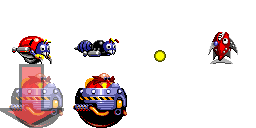
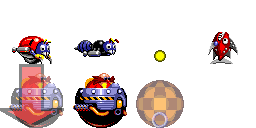
[GHZ] Improvements to boss

Changed region(s): [[0.5312, 0.625, 0.7188, 1.0]]

diff --git a/assets/levels/R2/objects.tsx b/assets/levels/R2/objects.tsx
@@ -7,4 +7,5 @@
  <tile id="3" type="unused1"/>
  <tile id="4" type="boss_spawner"/>
  <tile id="5" type="boss"/>
+ <tile id="6" type="boss_extras"/>
 </tileset>

diff --git a/src/object_state_update_R2.c b/src/object_state_update_R2.c
@@ -30,6 +30,7 @@ extern uint8_t    level_act;
 #define OBJ_CHOPPER      (MIN_LEVEL_OBJ_GID + 3) // Unused
 #define OBJ_BOSS_SPAWNER (MIN_LEVEL_OBJ_GID + 4)
 #define OBJ_BOSS         (MIN_LEVEL_OBJ_GID + 5)
+#define OBJ_BOSS_EXTRAS  (MIN_LEVEL_OBJ_GID + 6) // Wrecking ball and chain
 
 
 #define BUZZBOMBER_PATROL_RADIUS   (192 << 12)
@@ -44,17 +45,21 @@ static void _motobug_update(ObjectState *, ObjectTableEntry *, VECTOR *);
 static void _buzzbomber_ghz_update(ObjectState *, ObjectTableEntry *, VECTOR *);
 static void _projectile_ghz_update(ObjectState *, ObjectTableEntry *, VECTOR *);
 static void _boss_spawner_ghz_update(ObjectState *, ObjectTableEntry *, VECTOR *);
+static void _boss_ghz_update(ObjectState *, ObjectTableEntry *, VECTOR *);
+static void _boss_extras_ghz_update(ObjectState *, ObjectTableEntry *, VECTOR *);
 
 void
 object_update_R2(ObjectState *state, ObjectTableEntry *typedata, VECTOR *pos)
 {
     switch(state->id) {
     default: break;
-    case OBJ_MOTOBUG: _motobug_update(state, typedata, pos); break;
-    case OBJ_BUZZBOMBER: _buzzbomber_ghz_update(state, typedata, pos); break;
-    case OBJ_PROJECTILE: _projectile_ghz_update(state, typedata, pos); break;
+    case OBJ_MOTOBUG:      _motobug_update(state, typedata, pos);          break;
+    case OBJ_BUZZBOMBER:   _buzzbomber_ghz_update(state, typedata, pos);   break;
+    case OBJ_PROJECTILE:   _projectile_ghz_update(state, typedata, pos);   break;
     case OBJ_CHOPPER: break; // Unused
     case OBJ_BOSS_SPAWNER: _boss_spawner_ghz_update(state, typedata, pos); break;
+    case OBJ_BOSS:         _boss_ghz_update(state, typedata, pos);         break;
+    case OBJ_BOSS_EXTRAS:  _boss_extras_ghz_update(state, typedata, pos);  break;
     }
 }
 
@@ -342,6 +347,28 @@ _projectile_ghz_update(ObjectState *state, ObjectTableEntry *typedata, VECTOR *p
 
 extern BossState *boss;
 
+#define BOSS_STATE_INIT       0
+#define BOSS_STATE_MOCKPLAYER 1
+#define BOSS_STATE_DEAD       5
+
+#define BOSS_DESCENT_SPEED         0x01200
+#define BOSS_WALK_SPEED            0x01200
+#define BOSS_BALL_DESCENT_SPEED    0x01200
+#define WRECKINGBALL_SWING_RADIUS      111
+#define WRECKINGBALL_SWING_SPEED   0x00020
+
+#define BOSS_ANIM_STOP       0
+#define BOSS_ANIM_MOVE       1
+#define BOSS_ANIM_LAUGH      2
+#define BOSS_ANIM_HIT        3
+#define BOSS_ANIM_RECOVERING 4
+#define BOSS_ANIM_DEAD       5
+#define BOSS_ANIM_DROPPING   6
+
+// Extra object animations
+#define BOSS_EXTRA_WRECKINGBALL 0
+#define BOSS_EXTRA_CHAIN        1
+
 static void
 _boss_spawner_ghz_update(ObjectState *state, ObjectTableEntry *typedata, VECTOR *pos)
 {
@@ -353,10 +380,10 @@ _boss_spawner_ghz_update(ObjectState *state, ObjectTableEntry *typedata, VECTOR 
         boss_obj->freepos.vx = ((pos->vx + 128) << 12);
         boss_obj->freepos.vy = ((pos->vy - 320) << 12);
         boss_obj->state.anim_state.animation = 0;
-        boss_obj->state.flipmask = state->flipmask;
+        boss_obj->state.flipmask = state->flipmask; // Face left
 
         // Setup boss state
-        /* boss->state = BOSS_STATE_INIT; */
+        boss->state = BOSS_STATE_INIT;
         boss->health = 8;
         boss->anchor.vx = (pos->vx << 12);
         boss->anchor.vy = (pos->vy << 12);
@@ -366,5 +393,150 @@ _boss_spawner_ghz_update(ObjectState *state, ObjectTableEntry *typedata, VECTOR 
         camera_focus(&camera, boss->anchor.vx, boss->anchor.vy - (100 << 12));
 
         sound_bgm_play(BGM_BOSS);
+    }
+}
+
+static ObjectState *
+_boss_ghz_spawn_wrecking_ball(ObjectState *state)
+{
+    // Chain links
+    PoolObject *chain[4];
+    PoolObject *ball;
+
+    // Create wrecking ball
+    ball = object_pool_create(OBJ_BOSS_EXTRAS);
+    //ball->freepos.vx = state->freepos->vx + (8 << 12);
+    ball->freepos.vx = state->freepos->vx;
+    ball->freepos.vy = state->freepos->vy - (14 << 12);
+    ball->state.anim_state.animation = BOSS_EXTRA_WRECKINGBALL;
+    ball->freepos.rx = ball->freepos.vx;
+    ball->freepos.ry = ball->freepos.vy;
+    ball->state.parent = state; // Point to boss state
+
+    for(int i = 0; i < 4; i++) {
+        chain[i] = object_pool_create(OBJ_BOSS_EXTRAS);
+        chain[i]->freepos.vx = ball->freepos.vx;
+        chain[i]->freepos.vy = ball->freepos.vy;
+        chain[i]->state.anim_state.animation = BOSS_EXTRA_CHAIN;
+    }
+
+    // Link chain parts
+    chain[0]->state.parent = state; // Point to boss
+    chain[0]->state.next   = &chain[1]->state;
+    for(int i = 1; i < 3; i++) {
+        // Link middle chain parts
+        chain[i]->state.parent = &chain[i-1]->state;
+        chain[i]->state.next   = &chain[i+1]->state;
+    }
+    chain[3]->state.parent = &chain[2]->state;
+    chain[3]->state.next   = &ball->state; // Point to ball
+
+    return &chain[0]->state;
+}
+
+static void
+_boss_ghz_update(ObjectState *state, ObjectTableEntry *typedata, VECTOR *pos)
+{
+    (void)(typedata);
+    (void)(pos);
+
+    // counter3: Wrecking ball swing angle
+    // counter4: Wrecking ball swing auxiliary (angle range)
+
+    switch(boss->state) {
+    default: break;
+    case BOSS_STATE_INIT:
+        // Center boss atop the stage
+        if(state->freepos->vy < (boss->anchor.vy - (128 << 12))) {
+            // Descent
+            state->flipmask = MASK_FLIP_FLIPX;
+            state->freepos->spdy = BOSS_DESCENT_SPEED;
+        } else if(state->freepos->vx > boss->anchor.vx) {
+            // Move left
+            state->flipmask = MASK_FLIP_FLIPX;
+            state->freepos->spdy = 0;
+            state->freepos->spdx = -BOSS_WALK_SPEED;
+        } else {
+            state->freepos->spdy = 0;
+            state->freepos->spdx = 0;
+            state->next = _boss_ghz_spawn_wrecking_ball(state);
+            boss->state = BOSS_STATE_MOCKPLAYER;
+        }
+        break;
+    case BOSS_STATE_MOCKPLAYER:
+        // TODO
+        break;
+    }
+
+    state->freepos->vx += state->freepos->spdx;
+    state->freepos->vy += state->freepos->spdy;
+
+    // Animation (TODO)
+    if(boss->state == BOSS_STATE_MOCKPLAYER)
+        state->frag_anim_state->animation = BOSS_ANIM_LAUGH;
+    else if(boss->hit_cooldown > 0)
+        state->frag_anim_state->animation = BOSS_ANIM_HIT;
+    else state->frag_anim_state->animation =
+             (player.action == ACTION_HURT)
+             ? BOSS_ANIM_LAUGH
+             : ((state->freepos->spdx != 0)
+                ? BOSS_ANIM_MOVE
+                : BOSS_ANIM_STOP);
+    
+}
+
+static void
+_boss_extras_ghz_update(ObjectState *state, ObjectTableEntry *typedata, VECTOR *pos)
+{
+    // This object is supposed to always spawn as a free object in the first
+    // place, so we'll make this quick and dirty.
+
+    // The boss state's next pointer points to the first chain link.
+
+    // A CHAIN always has a parent and a left pointers, pointing to the next
+    // link and finally to the wrecking ball.
+
+    // A WRECKING BALL points on *parent to the boss's state.
+    if(state->anim_state.animation == BOSS_EXTRA_WRECKINGBALL) {
+        // Setup relative Y position first. We need to position it a few
+        // places lower than the Boss's anchor.
+        // There are four chain links and the boss has 1px padding underneath,
+        // so its final position should be (16 * 4) + 48 - 1.
+        if(state->freepos->ry < state->parent->freepos->vy +
+           (WRECKINGBALL_SWING_RADIUS << 12)) {
+            state->freepos->vy += BOSS_BALL_DESCENT_SPEED;
+            state->freepos->ry = state->freepos->vy;
+        } else {
+            // Swing
+            if(boss->health > 0) {
+                boss->counter3 += WRECKINGBALL_SWING_SPEED;
+
+                // TODO: Hit player
+            }
+
+            state->freepos->vx = state->parent->freepos->vx +
+                (rsin(boss->counter3 >> 2) * WRECKINGBALL_SWING_RADIUS);
+            state->freepos->vy = state->parent->freepos->vy +
+                (rcos(boss->counter3 >> 2) * WRECKINGBALL_SWING_RADIUS);
+        }
+
+        return;
+    }
+
+    if(state->anim_state.animation == BOSS_EXTRA_CHAIN) {
+        int32_t next_vy = state->next->freepos->vy;
+        // If "next" is actually a wrecking ball, subtract its size
+        // (We take advantage here of the fact that "next" only points to
+        // an object of the current kind, and never to a boss or something
+        if(state->next->anim_state.animation == BOSS_EXTRA_WRECKINGBALL) {
+            next_vy -= ((48 - 16) << 12);
+        }
+        
+        state->freepos->vx =
+            (state->parent->freepos->vx + state->next->freepos->vx) >> 1;
+        state->freepos->vy =
+            (state->parent->freepos->vy + next_vy) >> 1;
+
+        return;
     }
 }

diff --git a/src/main.c b/src/main.c
@@ -55,6 +55,8 @@
 
 int debug_mode = 0;
 
+#include "screens/level.h"
+
 int
 main(void)
 {
@@ -75,8 +77,10 @@ main(void)
     sound_cdda_init();
 
     // Set first scene
-    scene_change(SCREEN_DISCLAIMER);
-    /* scene_change(SCREEN_OPTIONS); */
+    /* scene_change(SCREEN_DISCLAIMER); */
+
+    screen_level_setlevel(5);
+    scene_change(SCREEN_LEVEL);
 
     while(1) {
         // Update systems

diff --git a/src/object_state.c b/src/object_state.c
@@ -48,8 +48,9 @@ _emplace_object(
     // a "freepos" field either
     state->freepos = NULL;
 
-    // Parent entity is always NULL unless manually set.
+    // Parent and next entities is always NULL unless manually set.
     state->parent = NULL;
+    state->next = NULL;
 
     // Initialize animation state if this object
     // has a fragment

diff --git a/include/object_state.h b/include/object_state.h
@@ -91,6 +91,8 @@ typedef struct OBJECT_STATE {
 
     // Pointer to parent entity (NULL unless manually set!)
     ObjectState *parent;
+    // Pointer to next object (NULL unless manually set!)
+    ObjectState *next;
 } ObjectState;
 
 typedef struct {
